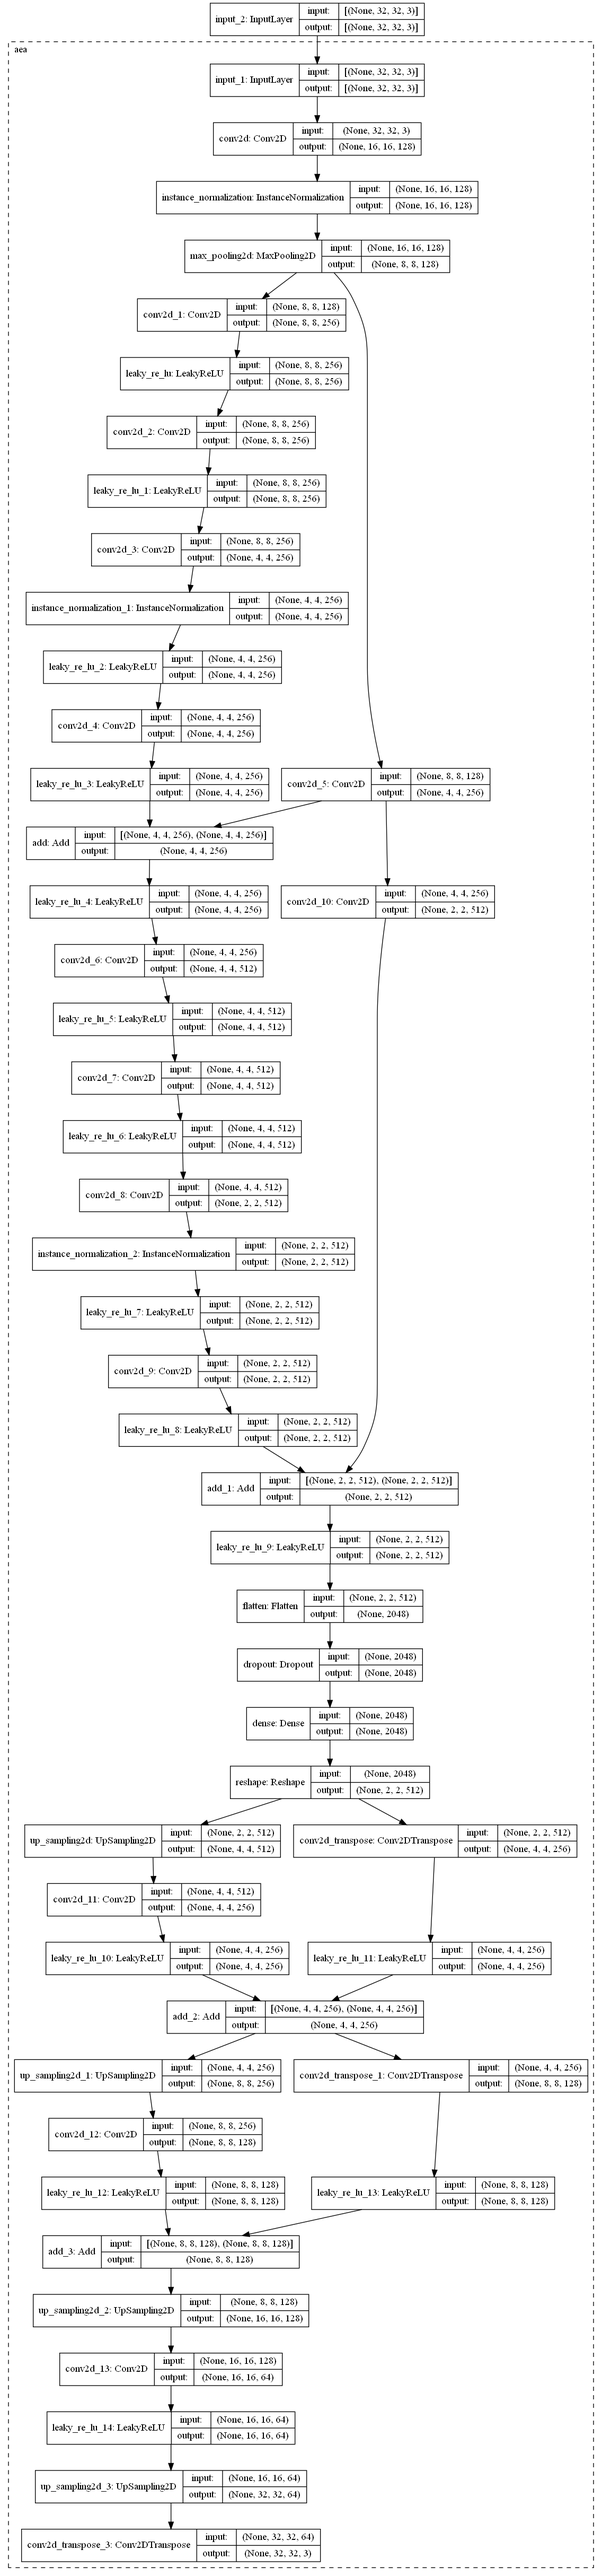
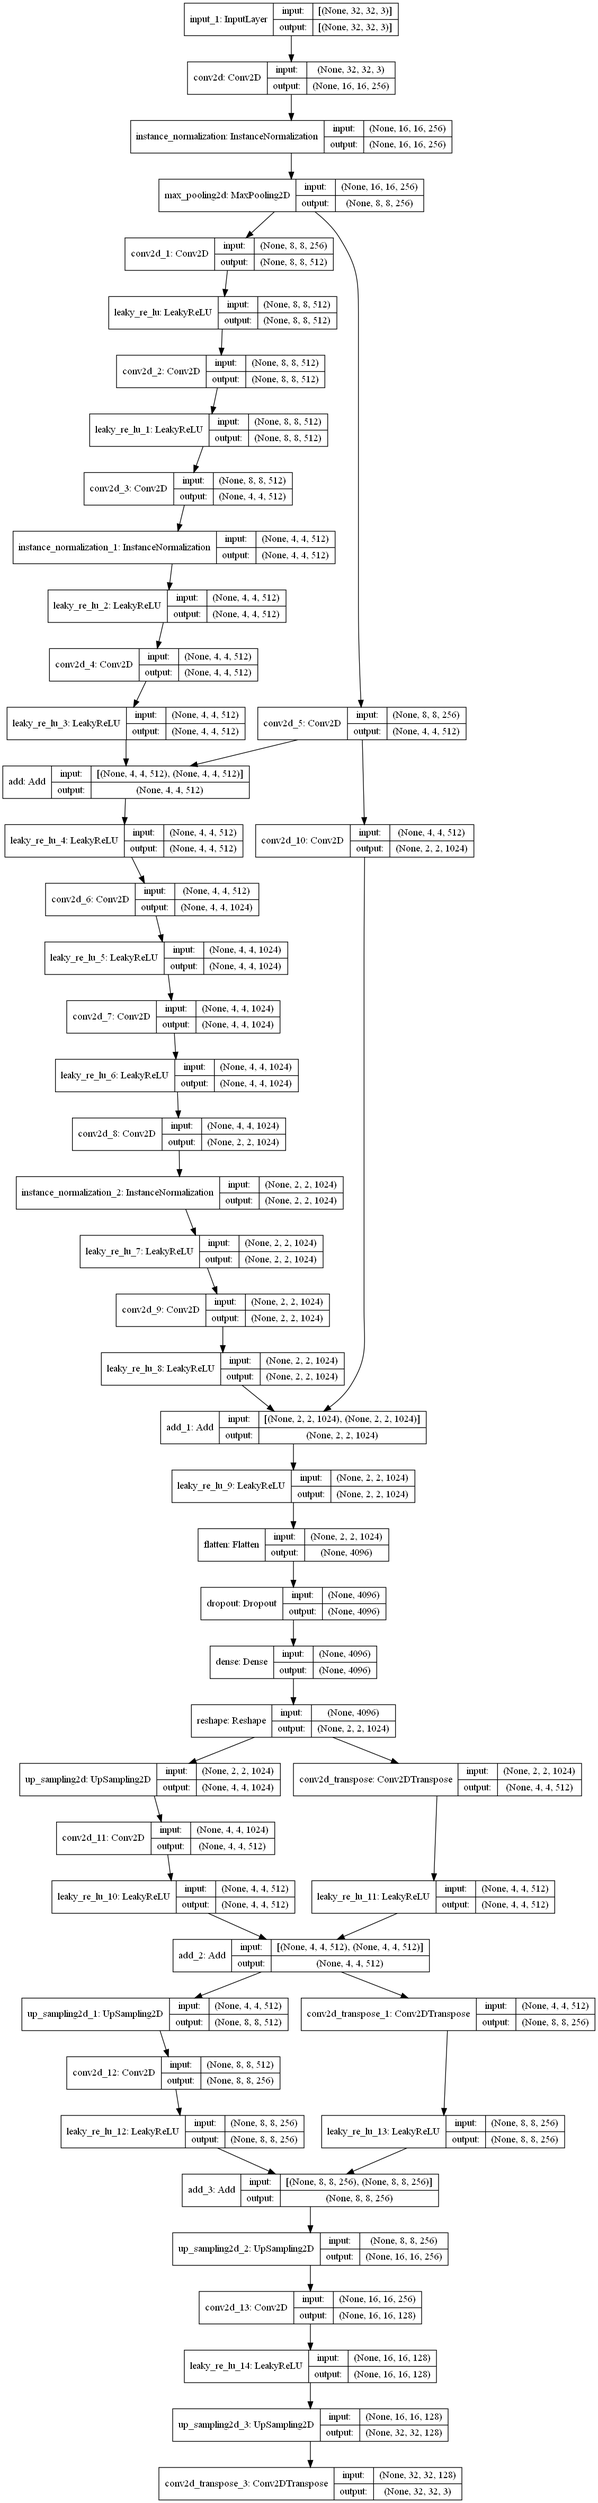
Modified neural style to style image based on 32x32 subsection of the same image

Changed region(s): [[0.0, 0.0, 0.992, 1.0], [0.899, 0.9964, 0.961, 1.0], [0.031, 0.685, 0.062, 0.7162]]

diff --git a/StyleNetV6.py b/StyleNetV6.py
@@ -18,9 +18,9 @@ set_session(sess)
 
 identity_lr = 1
 kl_lr = .1
-num_epochs = 200
-num_filters = 32
-batch_size = 32
+num_epochs = 50
+num_filters = 64
+batch_size = 24
 learning_rate = 2e-4
 record_epochs = 2
 optimizer = tf.keras.optimizers.Adam(learning_rate=learning_rate)
@@ -181,8 +181,8 @@ class AE_A(tf.keras.Model):
         print('Training completed in', int((time.time() - start_time) / 60), "minutes &", int(duration % 60), "seconds")
 
     def build_graph(self):
-        source = Input(shape=(32, 32, 3))
-        return tf.keras.Model(inputs=source, outputs=self.call(source), name=model_name)
+        print(self.model.summary())
+        return self.model
 
 
 @tf.function
@@ -208,17 +208,19 @@ image_dataset, _ = utils.create_dataset(batch_size=1)
 for layer in model.layers:
     print(layer.name)
 
-content_layers = ['conv2d_10',
-                  'flatten']
+content_layers = ['conv2d_transpose_3']
 
-style_layers = ['conv2d_2',
+style_layers = ['conv2d',
+                'conv2d_1',
+                'conv2d_2',
                 'conv2d_3',
                 'conv2d_4',
                 'conv2d_5',
                 'conv2d_6',
                 'conv2d_7',
                 'conv2d_8',
-                'conv2d_9']
+                'conv2d_9',
+                'conv2d_10']
 
 num_content_layers = len(content_layers)
 num_style_layers = len(style_layers)
@@ -239,9 +241,9 @@ for source, style in zip(image_dataset.take(1), image_dataset.take(1)):
     break
 
 source = np.expand_dims(np.array(style)[0], axis=0)
-style = np.expand_dims(utils.get_random_crop(np.array(style), 32, 32), axis=0)
+style = np.expand_dims(utils.get_random_crop(np.array(style)[0], 32, 32), axis=0)
 
-style_outputs = style_extractor(style*255)
+style_outputs = style_extractor(style[0]*255)
 
 class StyleContentModel(tf.keras.models.Model):
     def __init__(self, style_layers, content_layers):
@@ -327,7 +329,7 @@ def tensor_to_image(tensor, fname=None):
 
 extractor = StyleContentModel(style_layers, content_layers)
 
-style_targets = extractor(style)['style']
+style_targets = extractor(style[0])['style']
 
 image = np.array(source)
 
@@ -343,21 +345,21 @@ epochs = 10
 steps_per_epoch = 100
 step = 0
 
-file_name = 'predNeuralTransfer\stylized-image.png'
-for n in range(epochs):
-    for m in range(steps_per_epoch):
-        step += 1
-        for x in range(0, int(256/32)-1):
-            for y in range(0, int(256/32)-1):
-                block = image[:, x*32:(x+1)*32, y*32:(y+1)*32, :]
-                results = extractor(tf.constant(block))
-                content_targets = extractor(block)['content']
-                block = tf.Variable(block)
+file_name = 'stylized-image.png'
+for x in range(0, int(256/32)-1):
+    for y in range(0, int(256/32)-1):
+        block = image[:, x*32:(x+1)*32, y*32:(y+1)*32, :]
+        results = extractor(tf.constant(block))
+        content_targets = extractor(block)['content']
+        block = tf.Variable(block)
+        for n in range(epochs):
+            for m in range(steps_per_epoch):
                 train_image(block)
-                image[:, x * 32:(x + 1) * 32, y * 32:(y + 1) * 32, :] = np.array(block)
-        print(".", end='', flush=True)
-    tensor_to_image(image, fname=file_name)
-    print("Train step: {}".format(step))
+                step += 1
+            print(".", end='', flush=True)
+        image[:, x * 32:(x + 1) * 32, y * 32:(y + 1) * 32, :] = np.array(block)
+        tensor_to_image(image, fname=file_name)
+        print("Train step: {}".format(step))
 
 end = time.time()
 print("Total time: {:.1f}".format(end-start))

diff --git a/utils.py b/utils.py
@@ -198,12 +198,14 @@ def pixel_plotter_clusters(df, result):
 
 
 def get_random_crop(image, crop_height, crop_width):
-    image = image[0]
-    max_x = image.shape[1] - crop_width
-    max_y = image.shape[0] - crop_height
+    if len(image.shape) <= 3:
+        image = np.expand_dims(image, axis=0)
+    #image = image[0]
+    max_x = image.shape[2] - crop_width
+    max_y = image.shape[1] - crop_height
     x = np.random.randint(0, max_x)
     y = np.random.randint(0, max_y)
-    crop = image[y: y + crop_height, x: x + crop_width]
+    crop = image[:, y: y + crop_height, x: x + crop_width]
     return crop
 
 
